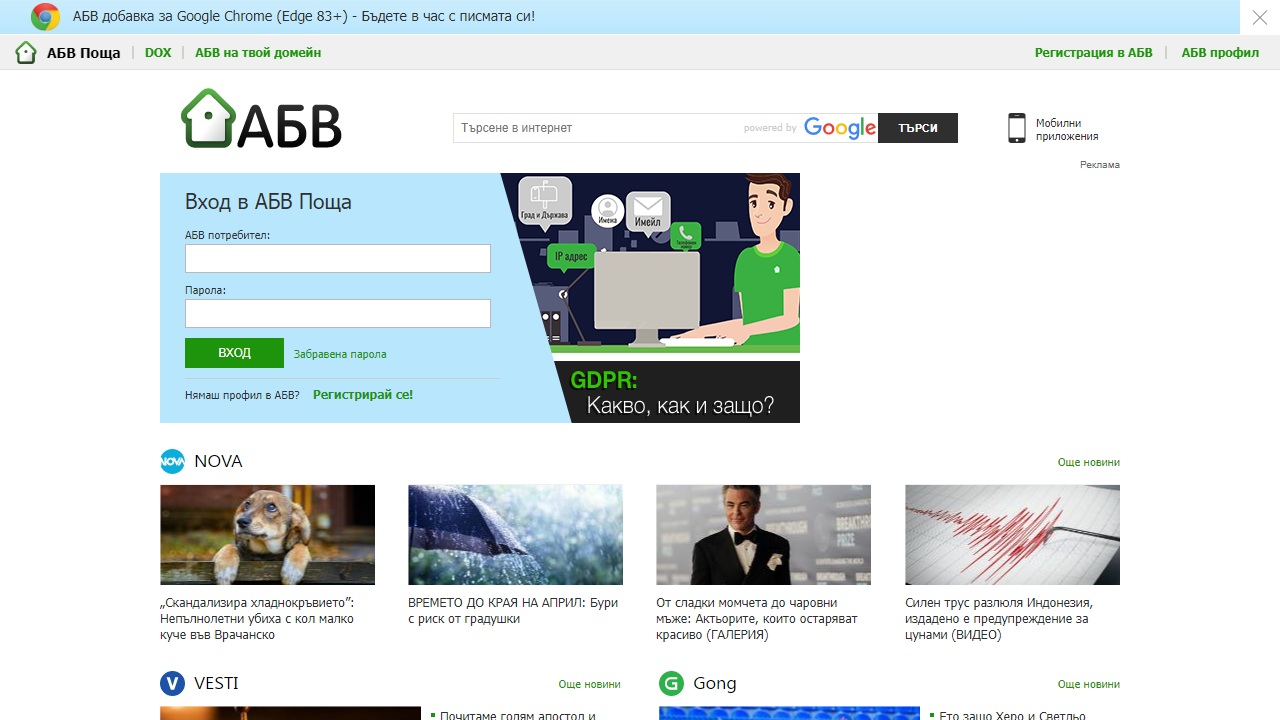
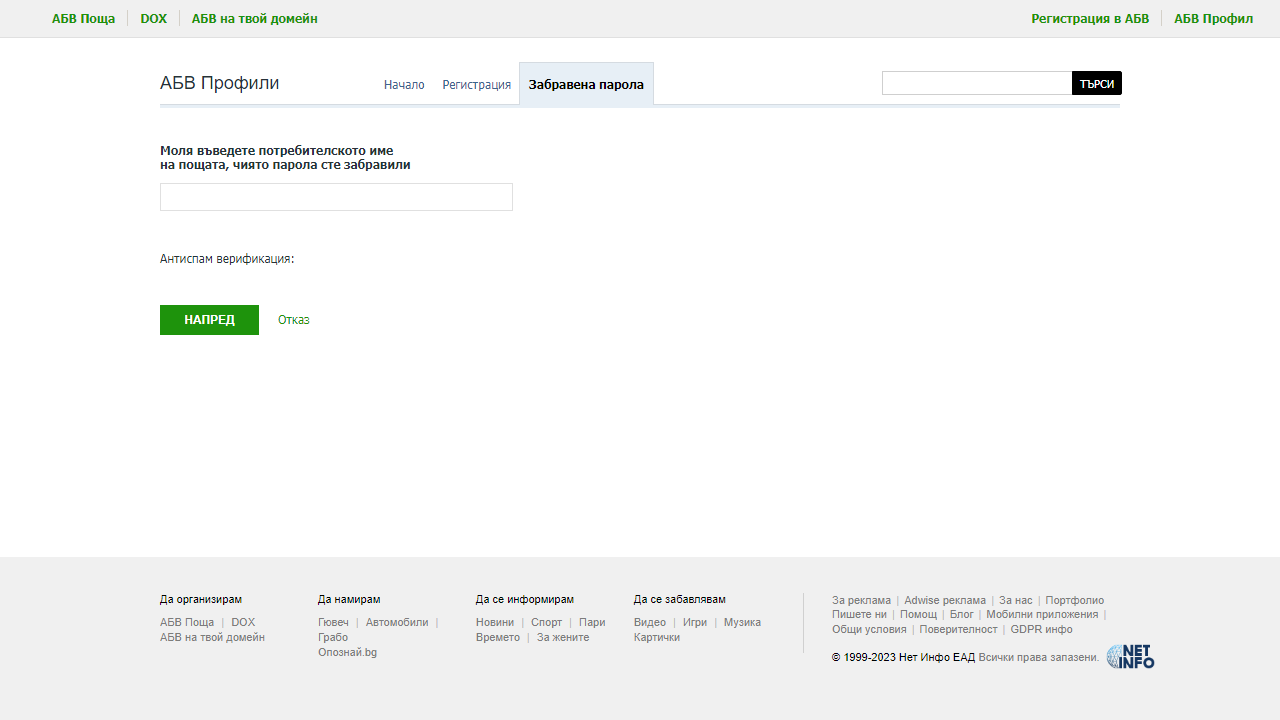
.

diff --git a/Applications/5.Lecture(architecture and Testing)/test.js b/Applications/5.Lecture(architecture and Testing)/test.js
@@ -5,7 +5,7 @@ let browser, page;
 
 describe('E2E tests', async function(){
     this.timeout(10000);
-
+    
     before(async () => {browser = await chromium.launch(); });
     after (async () => { await browser.close();});
     beforeEach(async () => {page = await browser.newPage();});
@@ -13,6 +13,7 @@ describe('E2E tests', async function(){
 
     it('make screenshot', async () => {
         await page.goto('https://abv.bg');
+        await page.click('a >> text = Забравена парола')
         await page.screenshot({path: 'test.png'});
         expect(1).to.equal(1);
     })
